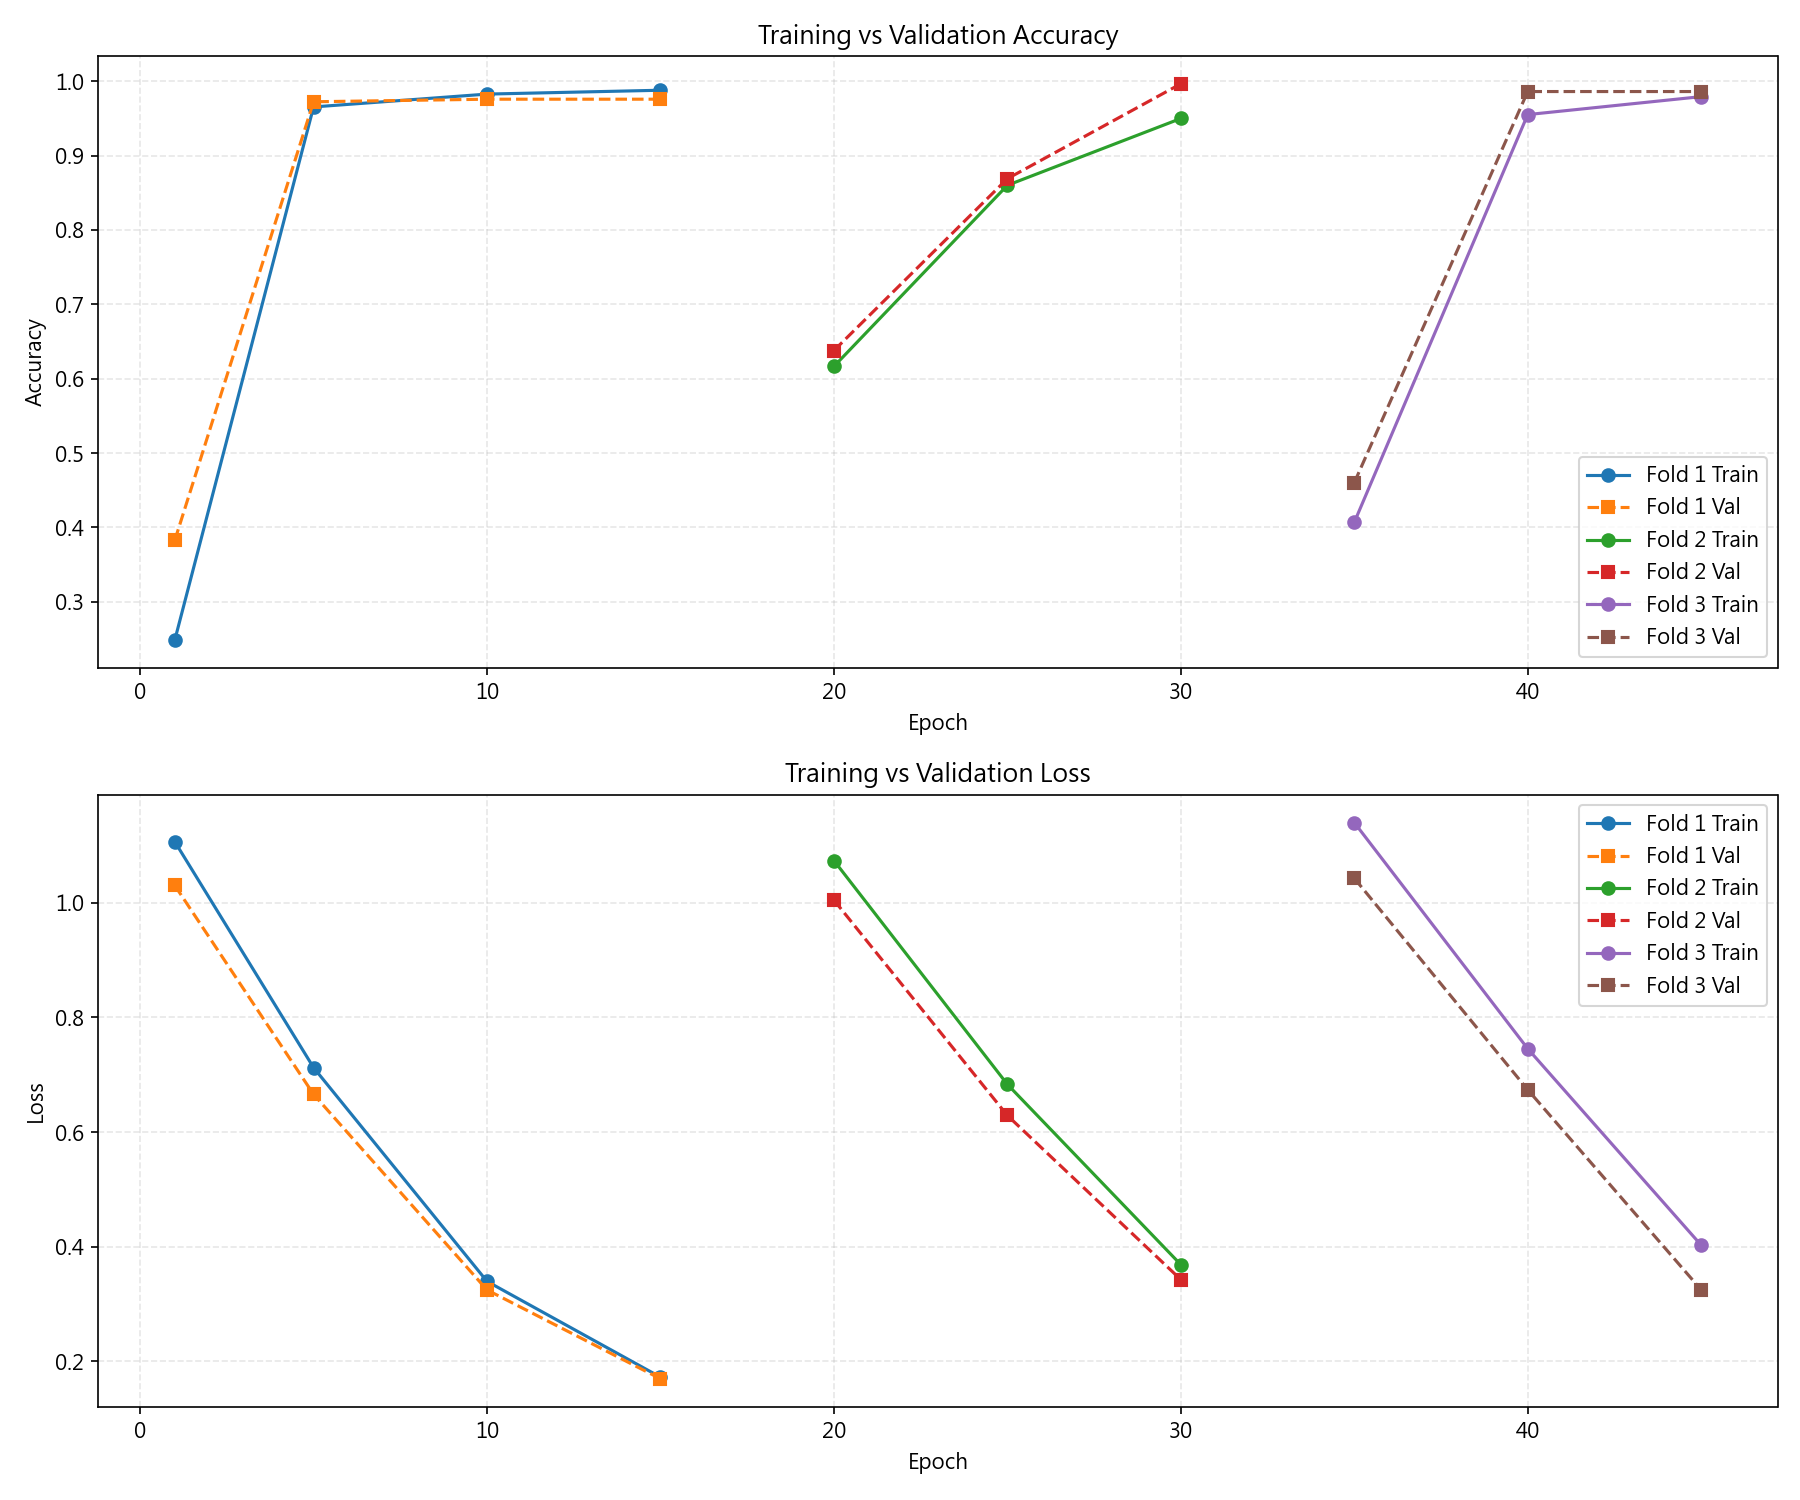
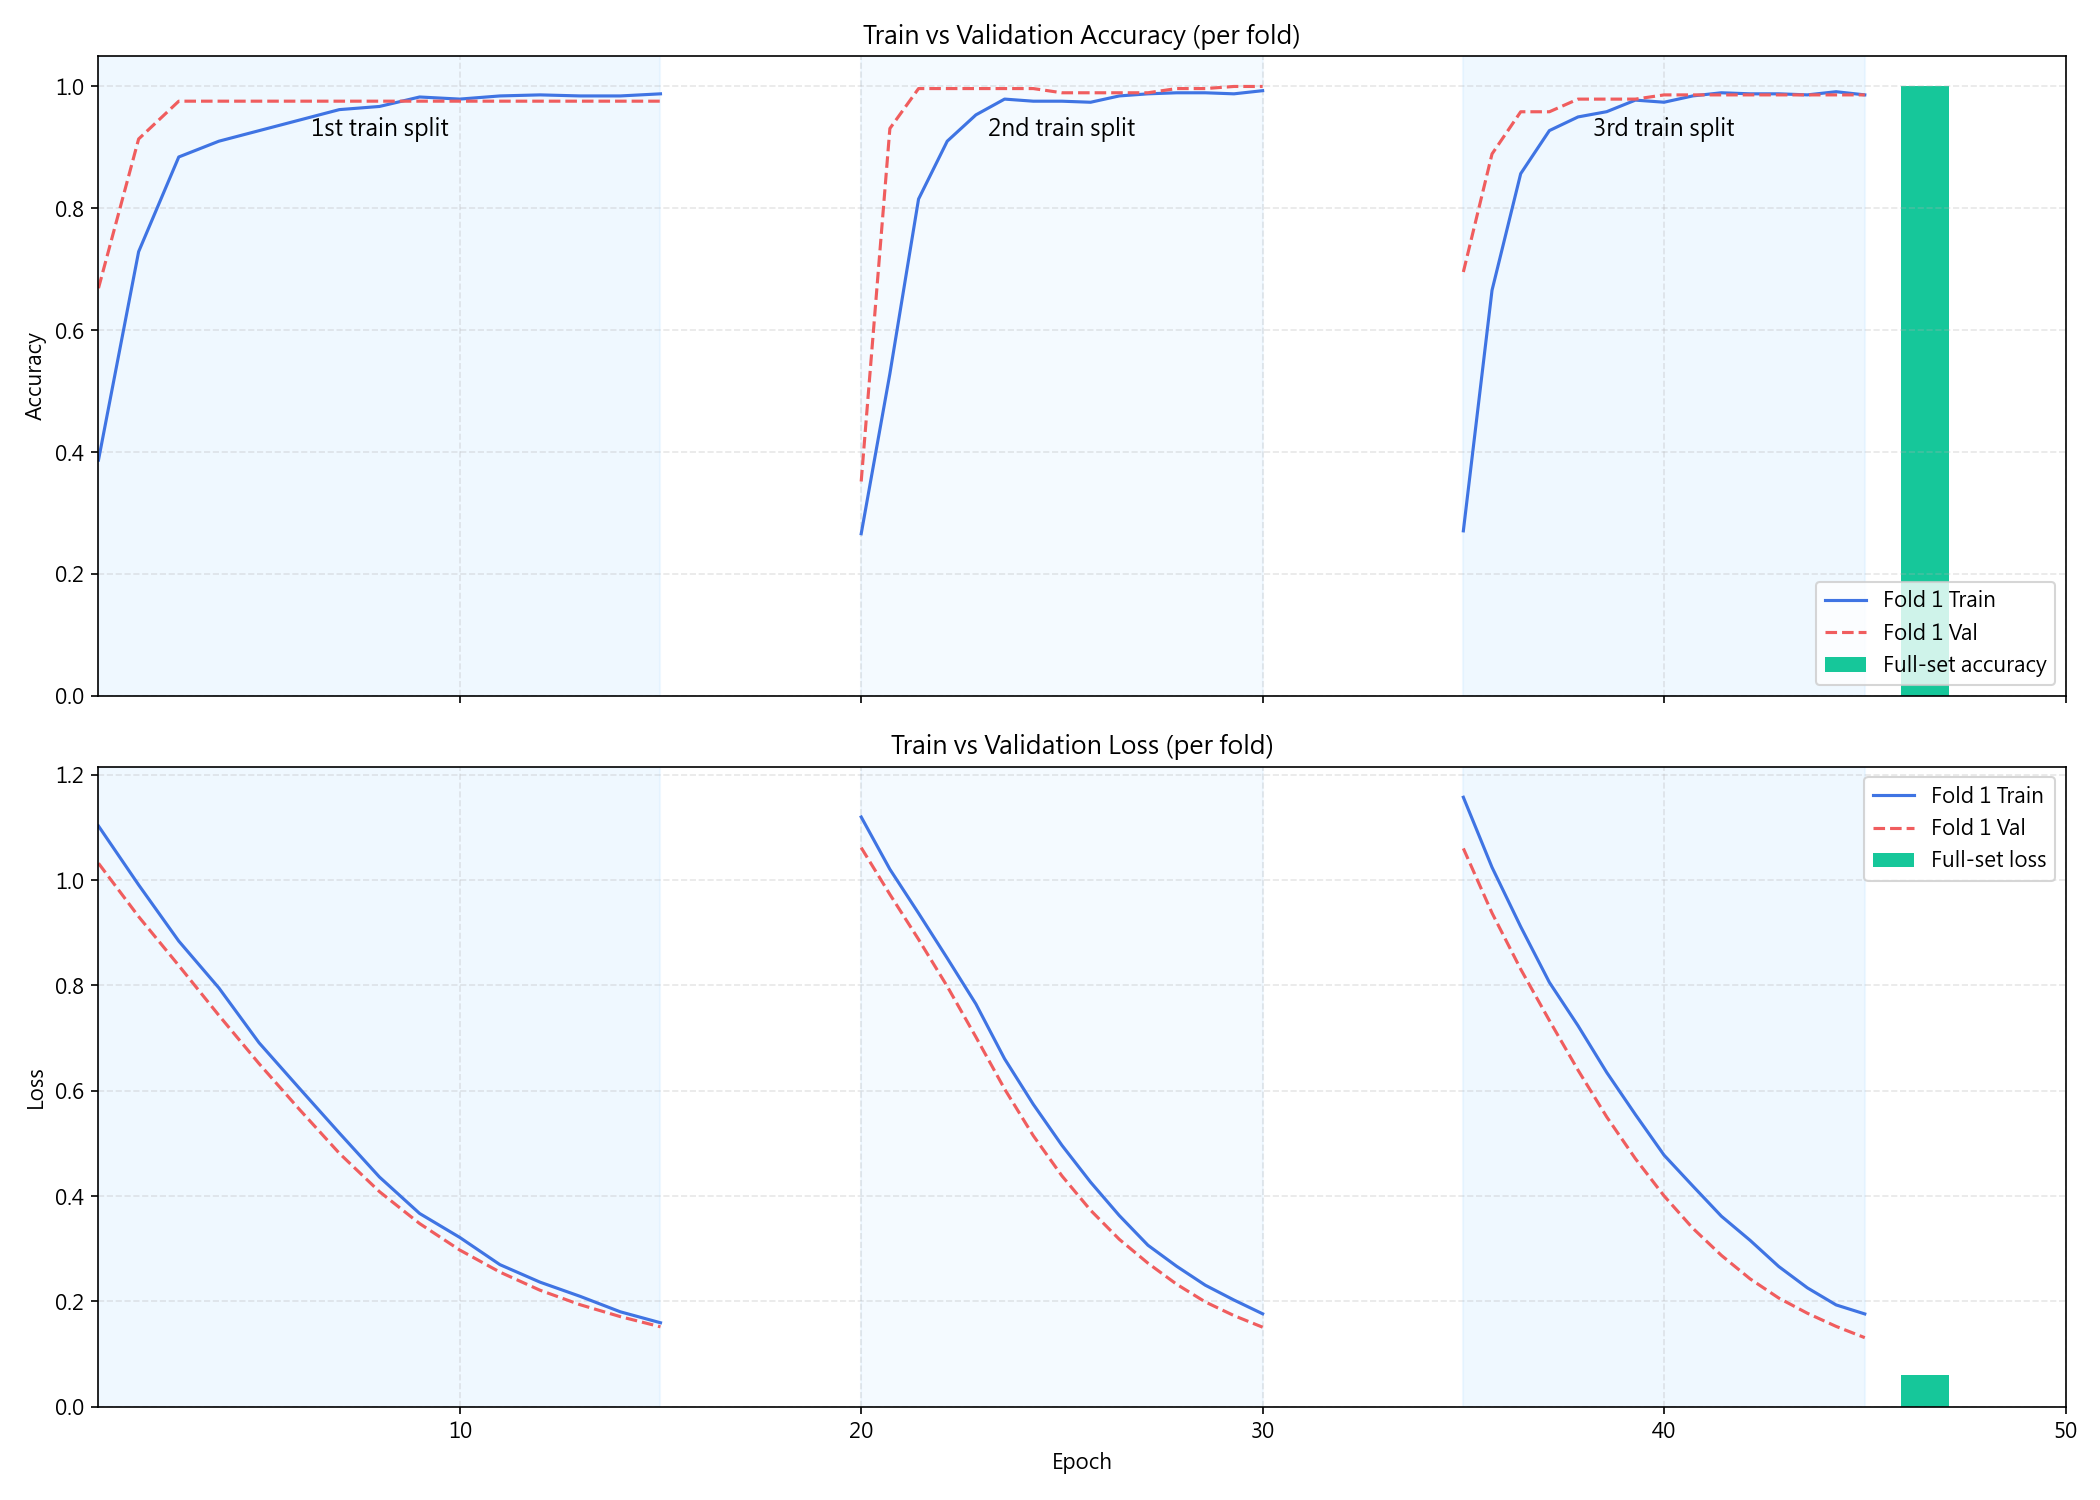
Refine training curve plots

diff --git a/train_classifier.py b/train_classifier.py
@@ -30,10 +30,11 @@ LABELS_ZH = {
     "normal": "狀態正常",
 }
 
-CURVE_EPOCH_MAP = {
-    1: ([1, 5, 10, 15], [0, 4, 9, 14]),
-    2: ([20, 25, 30], [0, 4, 9]),
-    3: ([35, 40, 45], [0, 4, 9]),
+# Target epoch ranges for each fold to create a continuous timeline
+EPOCH_RANGES = {
+    1: (1, 15),
+    2: (20, 30),
+    3: (35, 45),
 }
 
 if hasattr(sys.stdout, "reconfigure"):
@@ -160,19 +161,14 @@ def plot_analysis(classes, class_counts, confusion_matrix_raw, confusion_norm) -
     plt.close(fig)
 
 
-def sample_history(history: dict[str, list[float]], indices: list[int]) -> tuple[list[float], list[float], list[float], list[float]]:
-    accuracy = history.get("accuracy", [])
-    val_accuracy = history.get("val_accuracy", [])
-    loss = history.get("loss", [])
-    val_loss = history.get("val_loss", [])
-
-    def pick(source: list[float]) -> list[float]:
-        return [source[i] for i in indices if i < len(source)]
-
-    return pick(accuracy), pick(val_accuracy), pick(loss), pick(val_loss)
+def linspace_epochs(fold: int, length: int) -> np.ndarray:
+    start, end = EPOCH_RANGES.get(fold, (1, length))
+    if length == 1:
+        return np.array([start])
+    return np.linspace(start, end, num=length)
 
 
-def plot_training_curves(fold_histories: list[dict], max_epochs: int) -> None:
+def plot_training_curves(fold_histories: list[dict], production_metrics: dict[str, float]) -> None:
     if not fold_histories:
         return
 
@@ -180,38 +176,47 @@ def plot_training_curves(fold_histories: list[dict], max_epochs: int) -> None:
     plt.rcParams["font.family"] = font_families
     plt.rcParams["axes.unicode_minus"] = False
 
-    fig, axes = plt.subplots(2, 1, figsize=(12, 10), sharex=False)
+    fig, axes = plt.subplots(2, 1, figsize=(14, 10), sharex=True)
+
+    max_epoch = max(end for end in (rng[1] for rng in EPOCH_RANGES.values()))
+
+    for axis in axes:
+        axis.axvspan(*EPOCH_RANGES[1], color="#cbe8ff", alpha=0.3)
+        axis.axvspan(*EPOCH_RANGES[2], color="#cbe8ff", alpha=0.2)
+        axis.axvspan(*EPOCH_RANGES[3], color="#cbe8ff", alpha=0.3)
+
+    axes[0].text(8, axes[0].get_ylim()[1] * 0.95, "1st train split", ha="center", va="top", fontsize=11)
+    axes[0].text(25, axes[0].get_ylim()[1] * 0.95, "2nd train split", ha="center", va="top", fontsize=11)
+    axes[0].text(40, axes[0].get_ylim()[1] * 0.95, "3rd train split", ha="center", va="top", fontsize=11)
 
     for fold_info in fold_histories:
         fold = fold_info["fold"]
         history = fold_info["history"]
-        epoch_labels, index_candidates = CURVE_EPOCH_MAP.get(fold, ([], []))
-        if not epoch_labels:
-            continue
-        valid_indices = [idx for idx in index_candidates if idx < max_epochs]
-        if not valid_indices:
-            continue
-        mapped_epochs = [epoch_labels[index_candidates.index(idx)] for idx in valid_indices]
-        acc, val_acc, loss, val_loss = sample_history(history, valid_indices)
+        epochs = linspace_epochs(fold, len(history["accuracy"]))
 
-        axes[0].plot(mapped_epochs, acc, marker="o", label=f"Fold {fold} Train")
-        if val_acc:
-            axes[0].plot(mapped_epochs[: len(val_acc)], val_acc, marker="s", linestyle="--", label=f"Fold {fold} Val")
+        axes[0].plot(epochs, history["accuracy"], color="#3f74e3", label=f"Fold {fold} Train" if fold == 1 else None)
+        if "val_accuracy" in history:
+            axes[0].plot(epochs, history["val_accuracy"], color="#f05d5e", linestyle="--", label=f"Fold {fold} Val" if fold == 1 else None)
 
-        axes[1].plot(mapped_epochs, loss, marker="o", label=f"Fold {fold} Train")
-        if val_loss:
-            axes[1].plot(mapped_epochs[: len(val_loss)], val_loss, marker="s", linestyle="--", label=f"Fold {fold} Val")
+        axes[1].plot(epochs, history["loss"], color="#3f74e3", label=f"Fold {fold} Train" if fold == 1 else None)
+        if "val_loss" in history:
+            axes[1].plot(epochs, history["val_loss"], color="#f05d5e", linestyle="--", label=f"Fold {fold} Val" if fold == 1 else None)
 
-    axes[0].set_title("Training vs Validation Accuracy")
-    axes[0].set_xlabel("Epoch")
+    test_epochs = [max_epoch + 1.5]
+    axes[0].bar(test_epochs, [production_metrics.get("accuracy")], width=1.2, color="#16c79a", label="Full-set accuracy")
+    axes[1].bar(test_epochs, [production_metrics.get("loss")], width=1.2, color="#16c79a", label="Full-set loss")
+
     axes[0].set_ylabel("Accuracy")
+    axes[0].set_title("Train vs Validation Accuracy (per fold)")
     axes[0].grid(True, linestyle="--", alpha=0.3)
+    axes[0].set_xlim(1, max_epoch + 5)
     axes[0].legend(loc="lower right")
 
-    axes[1].set_title("Training vs Validation Loss")
     axes[1].set_xlabel("Epoch")
     axes[1].set_ylabel("Loss")
+    axes[1].set_title("Train vs Validation Loss (per fold)")
     axes[1].grid(True, linestyle="--", alpha=0.3)
+    axes[1].set_xlim(1, max_epoch + 5)
     axes[1].legend(loc="upper right")
 
     fig.tight_layout()
@@ -294,13 +299,14 @@ def main() -> None:
     full_scaler = StandardScaler().fit(features)
     X_full = full_scaler.transform(features)
     production_model = build_model(len(classes))
-    production_model.fit(
+    prod_history = production_model.fit(
         X_full,
         y,
         epochs=args.epochs,
         batch_size=args.batch_size,
         verbose=0,
     )
+    prod_loss, prod_acc = production_model.evaluate(X_full, y, verbose=0)
 
     production_model.save(MODEL_PATH, include_optimizer=False)
     joblib.dump({"scaler": full_scaler, "classes": classes, "class_to_id": class_to_id}, "aq_meta.pkl")
@@ -312,7 +318,11 @@ def main() -> None:
         confusion_norm = confusion / row_sums
         plot_analysis(classes, class_counts, confusion, confusion_norm)
         print(f"Saved analysis figure to {ANALYSIS_FIG}")
-        plot_training_curves(fold_histories, args.epochs)
+
+        plot_training_curves(
+            fold_histories,
+            {"accuracy": prod_acc, "loss": prod_loss},
+        )
         print(f"Saved training curves to {TRAINING_CURVE_FIG}")
 
 
